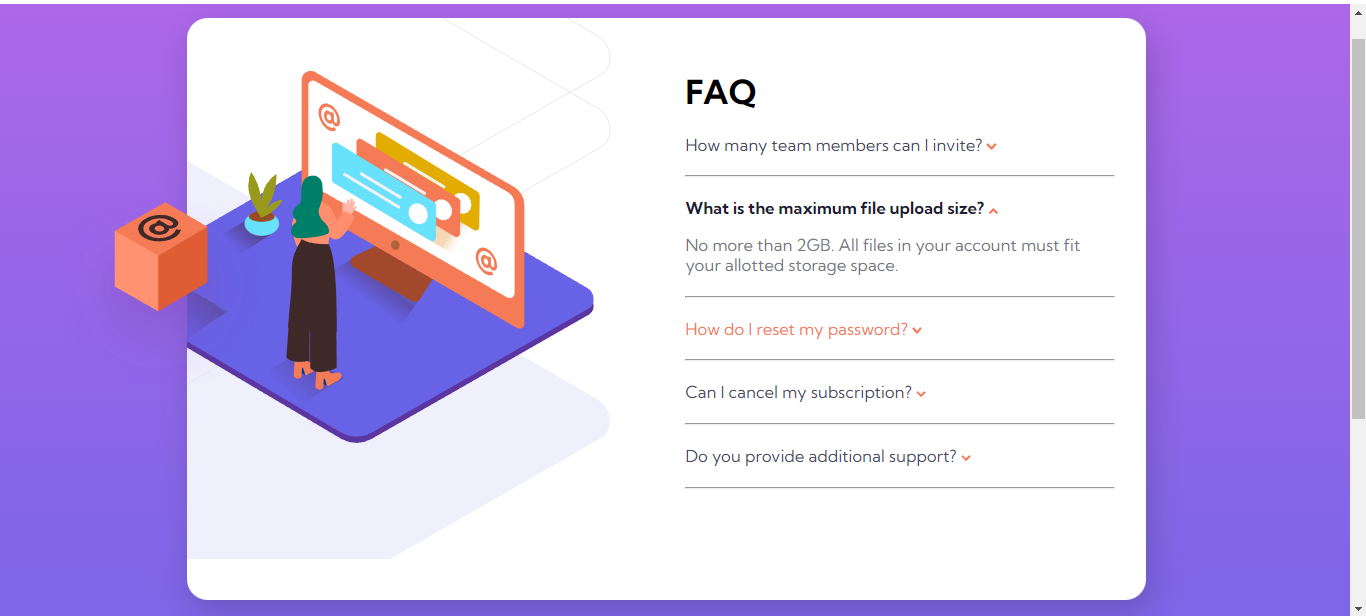
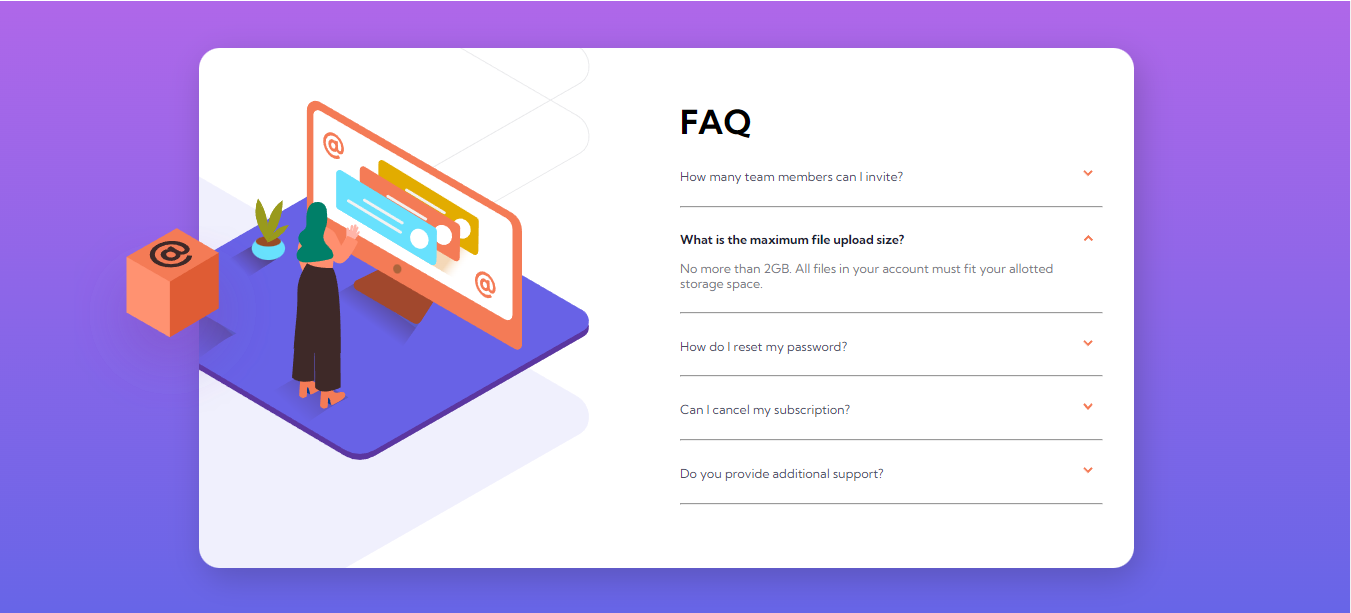
Refactor

diff --git a/FAQ-according-card/style.css b/FAQ-according-card/style.css
@@ -1,10 +1,32 @@
+:root{
+    --very-dark-blue: hsl(238, 29%, 16%);
+    --soft-red: hsl(14, 88%, 65%);
+    --soft-violet: hsl(273, 75%, 66%);
+    --soft-blue: hsl(240, 73%, 65%);
+    --very-dark-grayish-blue: hsl(237, 12%, 33%);
+    --dark-grayish-blue: hsl(240, 6%, 50%);
+    --light-grayish-blue: hsl(240, 5%, 91%);
+
+    --container-width:900px;
+    --container-height:500px;
+    --container-width-mobile:355px;
+    --container-height-mobile:550px;
+    --woman-online-desktop: url("./images/illustration-woman-online-desktop.svg");
+    --bg-pattern :url("./images/bg-pattern-desktop.svg");
+
+}
+
+
+
+
+
 
 body{
-   background-image:linear-gradient(hsl(273, 75%, 66%),hsl(240, 73%, 65%));
+   background-image:linear-gradient(var(--soft-violet),var(--soft-blue));
    background-repeat: no-repeat;
    background-size: cover;
    font-family: 'Kumbh Sans', sans-serif;
-   min-height: 150vh;
+    min-height: 100vh;
 }
 
 
@@ -12,16 +34,17 @@ body{
     position: absolute;
     right:50vw;
     top:50vh;
-    width:922px;
-    height:560px;
-    margin-right:-461px;
-    margin-top:-254px;
+    width:var(--container-width);
+    height:var(--container-height);
+    margin-right:calc( (-1) * var(--container-width) * (1/2) );
+    margin-top: calc( (-1) * var(--container-height) * (1/2) );
     
     border-radius: 20px;
     box-shadow: 5px 10px 30px rgba(19, 19, 19, 0.2);
     
     background-color: white;
     display:inline-flex;
+    box-sizing: border-box;
     
 }
 .box-illu{
@@ -29,13 +52,13 @@ body{
 }
 
 .side-design{
-    background-image: url("./images/illustration-woman-online-desktop.svg"),url("./images/bg-pattern-desktop.svg");
+    background-image: var(--woman-online-desktop),var(--bg-pattern);
     background-size: 105%,200%;
-    background-position: -80px 50px,-490px -240px;
+    background-position: -80px 50px,-490px -250px;
     background-repeat: no-repeat,no-repeat;
     
-    width:461px;
-    height: 560px;
+    width:calc(var(--container-width) * (1/2));
+    height: var(--container-height);
     padding-top: 19%;
     box-sizing: border-box;
     position: relative;
@@ -58,20 +81,29 @@ body{
 }
 .answer{
     display: none;
-    color:hsl(240, 6%, 50%);
+    color:var(--dark-grayish-blue);
     width: 400px;
+    font-size: 12px;
 }
 .question{
-
-    color:hsl(237, 12%, 33%);
+    font-size: 12px;
+    color:var(--very-dark-grayish-blue);
 }
+
+@media (hover : hover) and (pointer : fine){
 .question:hover{
 
-    color: hsl(14, 88%, 65%)
+    color: hsl(14, 88%, 65%);
+}
+}
+.arrow{
+    position: absolute;
+    right:40px;
+    margin-top: 5px;
 }
 hr{
-    color:hsl(240, 5%, 91%);
-    width: 411px;
+    color:--light-grayish-blue;
+    width: calc(var(--container-width)*(1/2)*(0.9));
 }
 .answer-active{
     display: block;
@@ -88,7 +120,7 @@ hr{
     transform: rotate(-180deg);
 }
 .question-active{
-    color: hsl(238, 29%, 16%);
+    color:var(--very-dark-blue);
     font-weight: 700;
 }
 .woman-mobile{
@@ -100,14 +132,12 @@ hr{
         position: absolute;
         right:50vw;
         top:50vh;
-        width:365px;
-        height:540px;
-        margin-right:-188px;
-        margin-top:-150px;
-        
+        width:var(--container-width-mobile);
+        height:var(--container-height-mobile);
+        margin-right:calc(var(--container-width-mobile)*(-1)*(1/2));
+        margin-top:calc(var(--container-height-mobile)*(-1)*(1/2));
         border-radius: 20px;
         box-shadow: 5px 10px 30px rgba(19, 19, 19, 0.2);
-        
         background-color: white;
         display:block;
     }
@@ -115,7 +145,7 @@ hr{
         width:0px;
     }
     .side-design{
-        width:365px;
+        width:var(--container-width-mobile);
         height: 218px;
         
         padding-top:0%;
@@ -149,18 +179,23 @@ hr{
        width: 320px;
         
     }
+    .arrow{
+        right:10px;
+        position: absolute;
+        margin-top: 5px;
+    }
     .answer{
         display: none;
         color:hsl(240, 6%, 50%);
-       width:320px
+       width:calc(var(--container-width-mobile)*0.75);
     }
     hr{
-        width: 320px;
+        width:calc(var(--container-width-mobile)*0.8);
     }
     .question-box{
         margin-bottom: 15px;
         margin-top: 15px;
-        width:320px
+        width:calc(var(--container-width-mobile)*0.8);
     }
     .answer-active{
         display: block;
